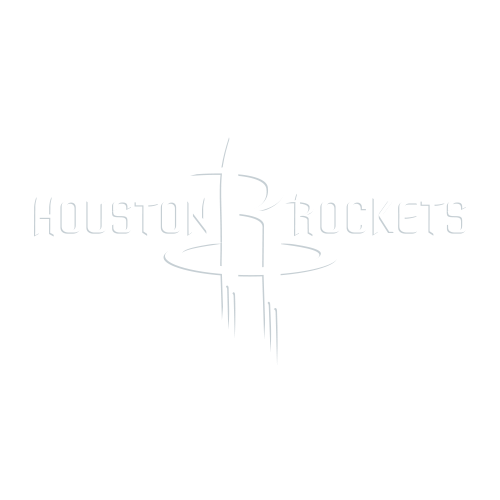
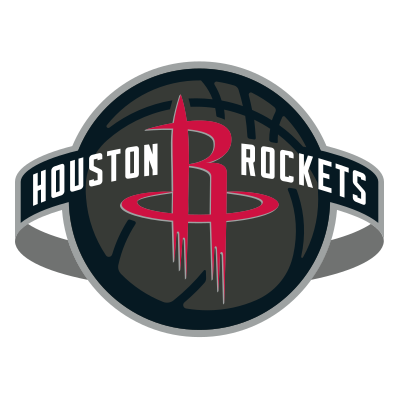
finish Teams page

diff --git a/components/teamtable.js b/components/teamtable.js
@@ -1,32 +1,54 @@
-import { Table, Thead, Tbody, Tr, Th, Td } from '@chakra-ui/react'
-
+import {
+  Container,
+  Heading,
+  Table,
+  Thead,
+  Tbody,
+  Tr,
+  Th,
+  Td
+} from '@chakra-ui/react'
+import { Image } from '@chakra-ui/react'
 import teammap from '/lib/teammap'
 
 const TeamTable = () => {
   //  console.log(teammap)
   return (
-    <Table variant="simple" bg="#FFFFFF">
-      <Thead>
-        <Tr>
-          <Th></Th>
-          <Th>Team</Th>
-          <Th>City</Th>
-          <Th isNumeric>Score</Th>
-        </Tr>
-      </Thead>
-      <Tbody>
-        {Object.keys(teammap).map(key => {
-          return (
-            <Tr key={key}>
-              <Td>{key}</Td>
-              <Td>{teammap[key].team}</Td>
-              <Td>{teammap[key].city}</Td>
-              <Td>1</Td>
-            </Tr>
-          )
-        })}
-      </Tbody>
-    </Table>
+    <Container maxW="container.lg">
+      <Heading as="h3" size="md">
+        Team Score
+      </Heading>
+      <Table variant="simple" bg="#FFFFFF" borderRadius="xl">
+        <Thead>
+          <Tr>
+            <Th>Team</Th>
+            <Th></Th>
+            <Th>City</Th>
+            <Th isNumeric>Score</Th>
+          </Tr>
+        </Thead>
+        <Tbody>
+          {Object.keys(teammap).map(key => {
+            const img = "teams/"+key+".png"
+            return (
+              <Tr key={key}>
+                <Td>
+                  <Image
+                    borderRadius="full"
+                    boxSize="60px"
+                    src = {img}
+                    alt="Dan Abramov"
+                  />
+                </Td>
+                <Td>{teammap[key].team}</Td>
+                <Td>{teammap[key].city}</Td>
+                <Td>1</Td>
+              </Tr>
+            )
+          })}
+        </Tbody>
+      </Table>
+    </Container>
   )
 }
 

diff --git a/components/navbar.js b/components/navbar.js
@@ -69,11 +69,11 @@ const Navbar = props => {
           flexGrow={1}
           mt={{ base: 4, md: 0 }}
         >
-          <LinkItem href="/team" path={path}>
-            Team
+          <LinkItem href="/teams" path={path}>
+            Teams
           </LinkItem>
-          <LinkItem href="/player" path={path}>
-            Player
+          <LinkItem href="/players" path={path}>
+            Players
           </LinkItem>
           <LinkItem
             target="_blank"
@@ -91,8 +91,8 @@ const Navbar = props => {
 
         <Box flex={1} align="right">
 
-          <Box ml={2} display={{ base: 'inline-block', md: 'none' }}>
-            <Menu isLazy id="navbar-menu">
+          <Box ml={2} display={{ base: 'inline-block', md: 'none' }} bg="#FFFFFF" borderRadius = "lg">
+            <Menu isLazy id="navbar-menu" >
               <MenuButton
                 as={IconButton}
                 icon={<HamburgerIcon />}
@@ -103,11 +103,11 @@ const Navbar = props => {
                 <NextLink href="/" passHref>
                   <MenuItem as={Link}>Homepage</MenuItem>
                 </NextLink>
-                <NextLink href="/team" passHref>
-                  <MenuItem as={Link}>Team</MenuItem>
+                <NextLink href="/teams" passHref>
+                  <MenuItem as={Link}>Teams</MenuItem>
                 </NextLink>
-                <NextLink href="/player" passHref>
-                  <MenuItem as={Link}>Player</MenuItem>
+                <NextLink href="/players" passHref>
+                  <MenuItem as={Link}>Players</MenuItem>
                 </NextLink>
                 <MenuItem
                   as={Link}

diff --git a/components/slider.js b/components/slider.js
@@ -1,0 +1,58 @@
+import {
+  Slider,
+  SliderTrack,
+  SliderFilledTrack,
+  SliderThumb,
+  SliderMark,
+  Tooltip
+} from '@chakra-ui/react'
+import React from 'react'
+
+function SliderThumbWithTooltip() {
+  const [sliderValue, setSliderValue] = React.useState(5)
+  const [showTooltip, setShowTooltip] = React.useState(false)
+  return (
+    <Slider
+      id="slider"
+      defaultValue={5}
+      min={0}
+      max={100}
+      step={12.5}
+      colorScheme="linkedin"
+      onChange={v => setSliderValue(v)}
+      onMouseEnter={() => setShowTooltip(true)}
+      onMouseLeave={() => setShowTooltip(false)}
+    >
+      <SliderMark value={0} mt="2" ml="-2.5" fontSize="sm">
+        2014
+      </SliderMark>
+      <SliderMark value={25} mt="2" ml="-2.5" fontSize="sm">
+        2016
+      </SliderMark>
+      <SliderMark value={50} mt="2" ml="-2.5" fontSize="sm">
+        2018
+      </SliderMark>
+      <SliderMark value={75} mt="2" ml="-2.5" fontSize="sm">
+        2020
+      </SliderMark>
+      <SliderMark value={100} mt="2" ml="-2.5" fontSize="sm">
+        2022
+      </SliderMark>
+      <SliderTrack>
+        <SliderFilledTrack />
+      </SliderTrack>
+      <Tooltip
+        hasArrow
+        bg="blue.600"
+        color="white"
+        placement="top"
+        isOpen={showTooltip}
+        label={`${sliderValue/12.5+2014}`}
+      >
+        <SliderThumb />
+      </Tooltip>
+    </Slider>
+  )
+}
+
+export default SliderThumbWithTooltip

diff --git a/components/area.js b/components/area.js
@@ -1,0 +1,24 @@
+import { VStack, Text, Heading } from '@chakra-ui/react'
+
+
+const Teams = {
+    'ATLANTIC':['Boston Celtics', 'Brooklyn Nets', 'New York Knicks', 'Philadelphia 76ers', 'Toronto Raptors'],
+    'CENTRAL':['Chicago Bulls', 'Cleveland Cavaliers', 'Detroit Pistons', 'Indiana Pacers', 'Milwaukee Bucks'],
+    'SOUTHEAST':['Atlanta Hawks', 'Charlotte Hornets', 'Miami Heat', 'Orlando Magic', 'Washington Wizards'],
+    'NORTHWEST':['Denver Nuggets', 'Minnesota Timberwolves', 'Oklahoma City Thunder', 'Portland Trail Blazers', 'Utah Jazz'],
+    'PACIFIC':['Golden State Warriors', 'LA Clippers', 'Los Angeles Lakers', 'Phoenix Suns', 'Sacramento Kings'],
+    'SOUTHWEST':['Dallas Mavericks', 'Houston Rockets', 'Memphis Grizzlies', 'New Orleans Pelicans', 'San Antonio Spurs'], 
+}
+
+const Area = ({ area }) => {
+  return (
+    <VStack p={10} spacing='3'>
+      <Heading size={'md'}>{area}</Heading>
+      {Teams[area].map((elem) => (
+        <Text fontSize={'lg'}>{elem}</Text>
+      ))}
+    </VStack>
+  )
+}
+
+export default Area

diff --git a/components/layouts/team.js b/components/layouts/team.js
@@ -1,0 +1,33 @@
+import { motion } from 'framer-motion'
+import Head from 'next/head'
+
+const variants = {
+  hidden: { opacity: 0, x: 0, y: 20 },
+  enter: { opacity: 1, x: 0, y: 0 },
+  exit: { opacity: 0, x: -0, y: 20 }
+}
+
+const Layout = ({ children, title }) => (
+  <motion.article
+    initial="hidden"
+    animate="enter"
+    exit="exit"
+    variants={variants}
+    transition={{ duration: 0.4, type: 'easeInOut' }}
+    style={{ position: 'relative' }}
+  >
+    <>
+      {title && (
+        <Head>
+          <title>{title}</title>
+          <meta name="twitter:title" content={title} />
+          <meta property="og:title" content={title} />
+        </Head>
+      )}
+      {children}
+
+    </>
+  </motion.article>
+)
+
+export default Layout

diff --git a/pages/teams/index.js b/pages/teams/index.js
@@ -1,0 +1,23 @@
+import { Container, Flex, Text, SimpleGrid, Heading } from '@chakra-ui/react'
+import Layout from '../../components/layouts/team'
+import Area from '../../components/area'
+const Teams = () => {
+  return (
+    <Layout>
+      <Container maxW="container.lg" pt={40} pb={5}>
+        <Heading>All Teams</Heading>
+        <SimpleGrid minChildWidth="250px" spacing="40px"  bg="#fff">
+        <Area area="ATLANTIC" />
+          <Area area="CENTRAL" />
+          <Area area="SOUTHEAST" />
+          <Area area="NORTHWEST" />
+          <Area area="PACIFIC" />
+          <Area area="SOUTHWEST" />
+        </SimpleGrid>
+
+      </Container>
+    </Layout>
+  )
+}
+
+export default Teams

diff --git a/pages/players/index.js b/pages/players/index.js
@@ -1,0 +1,23 @@
+import { Container, Flex, Text, VStack } from '@chakra-ui/react'
+import Layout from '../../components/layouts/team'
+const Teams = () => {
+  return (
+    <Layout>
+      <Container maxW="container.lg" pt={40} pb={5} >
+        <Flex h="100vh" bg="#fff" borderRadius={"lg"}>
+          <VStack w={'full'} p={10}>
+            <Text>ATLANRIC</Text>
+          </VStack>
+          <VStack w={'full'} p={10}>
+            <Text>CENTRAL</Text>
+          </VStack>
+          <VStack w={'full'} p={10}>
+            <Text>SOUTHEAST</Text>
+          </VStack>
+        </Flex>
+      </Container>
+    </Layout>
+  )
+}
+
+export default Teams

diff --git a/components/layouts/main.js b/components/layouts/main.js
@@ -4,12 +4,12 @@ import { Box, Container } from '@chakra-ui/react'
 import Navbar from '../navbar.js'
 const Main = ({ children, router }) => {
   return (
-    <Box as="main" pb={8}>
+    <Box as="main" pb={8} bg="#F6F6F6">
       <Head name="viewport" content="width=device-width, initial-scale=1">
         <title>NBA Champion Prediction</title>
       </Head>
         <Navbar path ={router.asPath}/>
-      <Container maxW="container.lg" bg="#F6F6F6">{children}</Container>
+      <Container maxW="container.lg" >{children}</Container>
       <Footer/>
     </Box>
   )

diff --git a/pages/404.js b/pages/404.js
@@ -1,0 +1,26 @@
+import NextLink from 'next/link'
+import {
+  Box,
+  Heading,
+  Text,
+  Container,
+  Divider,
+  Button
+} from '@chakra-ui/react'
+
+const NotFound = () => {
+  return (
+    <Container pt = {'40'}>
+      <Heading as="h1">Not found</Heading>
+      <Text>The page you&apos;re looking for was not found.</Text>
+      <Divider my={6} />
+      <Box my={6} align="center">
+        <NextLink href="/">
+          <Button colorScheme="blue">Return to home</Button>
+        </NextLink>
+      </Box>
+    </Container>
+  )
+}
+
+export default NotFound

diff --git a/pages/teams/[team].js b/pages/teams/[team].js
@@ -1,0 +1,21 @@
+import { Container, Flex, Text, VStack } from '@chakra-ui/react'
+import Layout from '../../components/layouts/team'
+import { useRouter } from 'next/router'
+const Team = () => {
+  const router = useRouter()
+  const { team } = router.query
+
+  return (
+    <Layout>
+      <Container maxW="container.lg" pt={40} pb={5}>
+        <Flex h="100vh" bg="#fff" borderRadius={'lg'}>
+          <VStack w={'full'} p={10}>
+            <Text>{team}</Text>
+          </VStack>
+        </Flex>
+      </Container>
+    </Layout>
+  )
+}
+
+export default Team

diff --git a/pages/index.js b/pages/index.js
@@ -1,4 +1,5 @@
 import { Container, Box, Heading, AspectRatio } from '@chakra-ui/react'
+import Slider from '../components/slider'
 import TeamTable from '../components/teamtable'
 const Page = () => {
   return (
@@ -12,6 +13,8 @@ const Page = () => {
             />
           </AspectRatio>
         </Box>
+          
+        <Slider/>
       </Container>
       <TeamTable />
     </Container>

diff --git a/pages/_app.js b/pages/_app.js
@@ -3,7 +3,7 @@ import { ChakraProvider } from '@chakra-ui/react'
 
 function Website({ Component, pageProps, router }) {
   return (
-    <ChakraProvider>
+    <ChakraProvider >
       <Layout router={router}>
         <Component {...pageProps} key={router.route} />
       </Layout>
